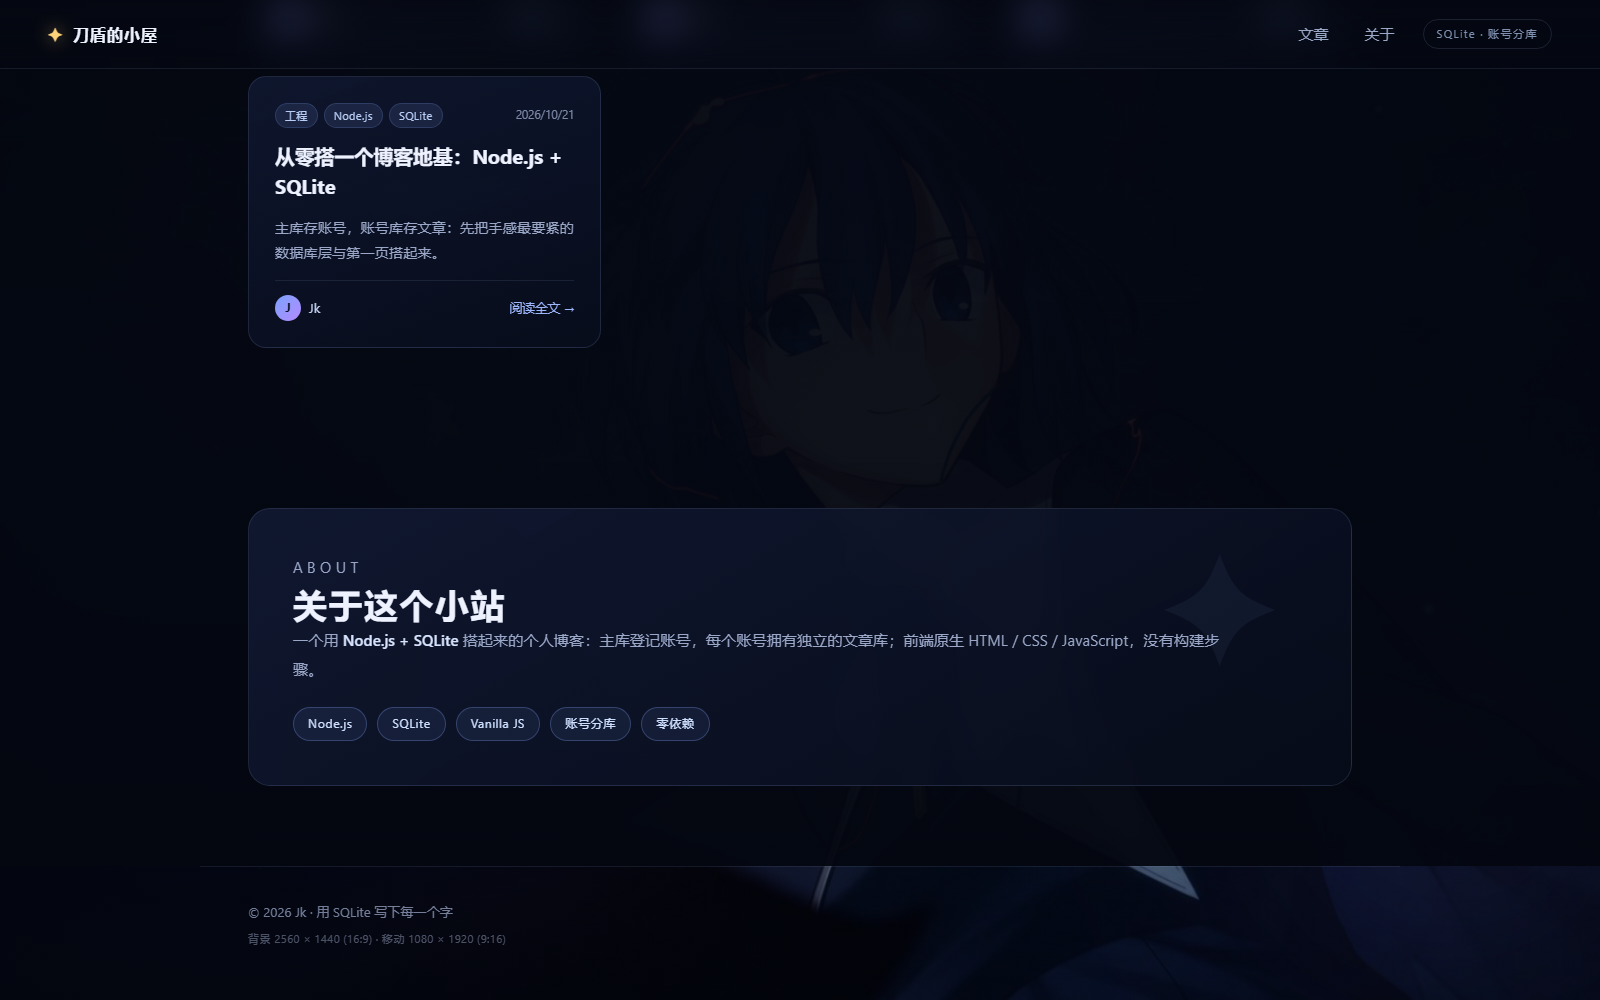
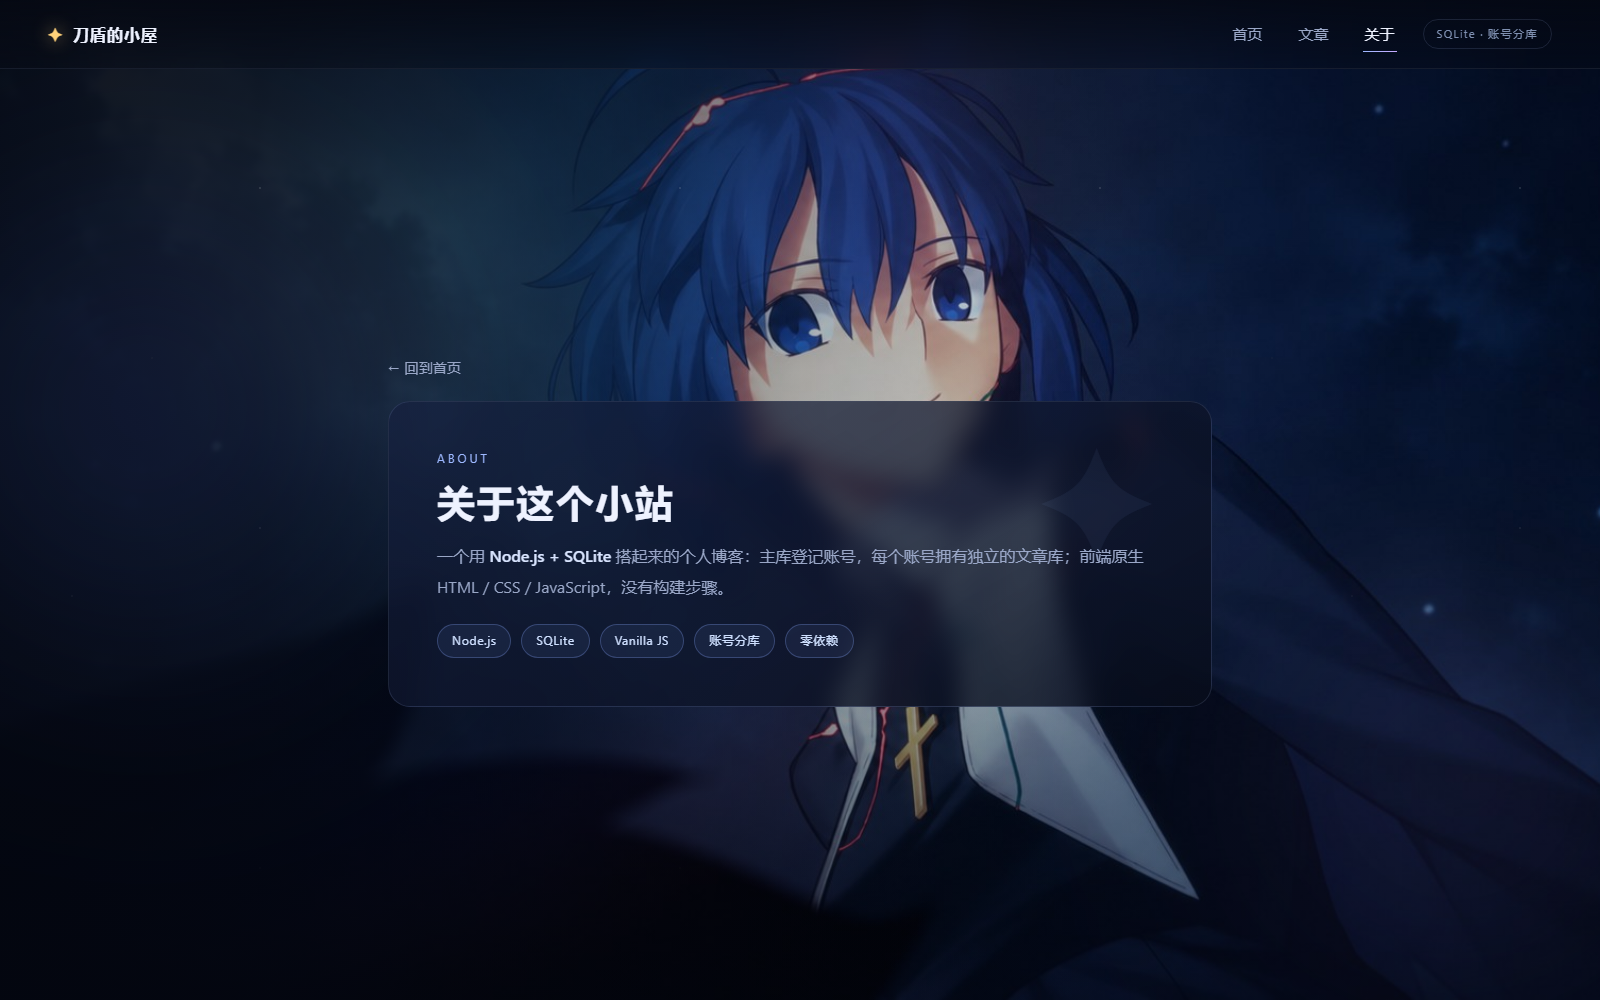
feat: 关于独立为 /about 页面，标题/正文/标签由主库 site_settings 驱动

diff --git a/web/about.html b/web/about.html
@@ -1,0 +1,66 @@
+<!DOCTYPE html>
+<html lang="zh-CN">
+  <head>
+    <meta charset="utf-8" />
+    <meta name="viewport" content="width=device-width, initial-scale=1" />
+    <title>关于这个小站 · 刀盾的小屋</title>
+    <meta name="description" content="关于刀盾的小屋：一个用 Node.js + SQLite 搭起来的个人博客。" />
+    <meta name="theme-color" content="#070b18" />
+    <link rel="icon" href="/assets/favicon.svg" type="image/svg+xml" />
+    <link rel="stylesheet" href="/css/style.css" />
+  </head>
+  <body>
+    <div class="scene" aria-hidden="true">
+      <div class="scene-bg"></div>
+      <div class="scene-stars"></div>
+      <div class="scene-glow scene-glow--a"></div>
+      <div class="scene-glow scene-glow--b"></div>
+      <div class="scene-veil"></div>
+    </div>
+
+    <header class="topbar">
+      <a class="brand" href="/" aria-label="回到首页">
+        <span class="brand-mark" aria-hidden="true">✦</span>
+        <span class="brand-text" data-site="title">刀盾的小屋</span>
+      </a>
+      <nav class="nav" aria-label="主导航">
+        <a class="nav-link" href="/">首页</a>
+        <a class="nav-link" href="/#feed">文章</a>
+        <a class="nav-link is-active" href="/about" aria-current="page">关于</a>
+      </nav>
+      <span class="topbar-badge">SQLite · 账号分库</span>
+    </header>
+
+    <main class="about-main">
+      <a class="back-link" href="/">← 回到首页</a>
+
+      <section class="about-card about-card--page" aria-labelledby="about-title">
+        <p class="section-kicker">About</p>
+        <h1 class="section-title" id="about-title" data-site="aboutTitle">关于这个小站</h1>
+        <div class="about-text" id="about-text">
+          <p>
+            一个用 <strong>Node.js + SQLite</strong> 搭起来的个人博客：主库登记账号，每个账号拥有独立的文章库；前端原生 HTML / CSS / JavaScript，没有构建步骤。
+          </p>
+        </div>
+        <ul class="tech-tags" id="about-tags" role="list">
+          <li>Node.js</li>
+          <li>SQLite</li>
+          <li>Vanilla JS</li>
+          <li>账号分库</li>
+          <li>零依赖</li>
+        </ul>
+      </section>
+    </main>
+
+    <footer class="footer">
+      <p data-site="footer">© 2026 Jk · 用 SQLite 写下每一个字</p>
+      <p class="footer-meta">背景 2560 × 1440 (16:9) · 移动 1080 × 1920 (9:16)</p>
+    </footer>
+
+    <noscript>
+      <p class="noscript">这个页面的内容需要 JavaScript 才能从后端读取，请启用后再试。</p>
+    </noscript>
+
+    <script type="module" src="/js/about.js"></script>
+  </body>
+</html>

diff --git a/web/css/style.css b/web/css/style.css
@@ -881,12 +881,16 @@ img {
   pointer-events: none;
 }
 
-.about-card > p {
+.about-text {
   max-width: 62em;
   margin: 0;
   color: var(--muted);
   font-size: 0.95rem;
   line-height: 1.95;
+}
+
+.about-text p {
+  margin: 0;
 }
 
 .about-card strong {
@@ -921,6 +925,57 @@ img {
   color: #cfe0ff;
   font-size: 0.77rem;
   letter-spacing: 0.04em;
+}
+
+/* ------------------------------------------------------------------
+   关于页（独立页面 /about）
+   ------------------------------------------------------------------ */
+
+.about-main {
+  display: flex;
+  flex-direction: column;
+  justify-content: center;
+  gap: clamp(14px, 2.4vh, 22px);
+  width: min(920px, 100%);
+  min-height: calc(100svh - 64px);
+  margin: 0 auto;
+  padding: clamp(32px, 6vh, 64px) clamp(20px, 5vw, 48px) clamp(40px, 7vh, 72px);
+}
+
+.back-link {
+  align-self: flex-start;
+  color: var(--muted);
+  font-size: 0.85rem;
+  letter-spacing: 0.04em;
+  text-decoration: none;
+  transition: color 0.2s ease;
+}
+
+.back-link:hover {
+  color: var(--ink);
+}
+
+.about-card--page {
+  width: 100%;
+  padding: clamp(28px, 4vw, 48px);
+  animation: rise-in 0.8s cubic-bezier(0.22, 0.8, 0.24, 1) both;
+}
+
+.about-card--page .section-title {
+  font-size: clamp(1.7rem, 3.2vw, 2.4rem);
+}
+
+.about-card--page .about-text {
+  margin-top: 14px;
+  font-size: 1rem;
+}
+
+.nav-link.is-active {
+  color: var(--ink);
+}
+
+.nav-link.is-active::after {
+  right: 0;
 }
 
 /* ------------------------------------------------------------------
@@ -1355,6 +1410,12 @@ img {
     min-height: calc(100svh - 52px);
     padding-top: 20px;
     padding-bottom: clamp(24px, 5vh, 40px);
+    padding-left: 18px;
+    padding-right: 18px;
+  }
+
+  .about-main {
+    min-height: calc(100svh - 52px);
     padding-left: 18px;
     padding-right: 18px;
   }

diff --git a/web/index.html b/web/index.html
@@ -30,7 +30,7 @@
       </a>
       <nav class="nav" aria-label="主导航">
         <a class="nav-link" href="#feed">文章</a>
-        <a class="nav-link" href="#about">关于</a>
+        <a class="nav-link" href="/about">关于</a>
       </nav>
       <span class="topbar-badge">SQLite · 账号分库</span>
     </header>
@@ -51,7 +51,7 @@
             <a class="btn btn-primary" href="#feed">
               进入博客 <span class="btn-arrow" aria-hidden="true">→</span>
             </a>
-            <a class="btn btn-ghost" href="#about">关于小站</a>
+            <a class="btn btn-ghost" href="/about">关于小站</a>
           </div>
           <dl class="stats" aria-label="站点数据">
             <div class="stat">
@@ -91,23 +91,6 @@
           </div>
           <div class="feed" id="feed-list">
             <p class="feed-state">正在读取文章库…</p>
-          </div>
-        </section>
-
-        <section class="section about-section" id="about" aria-labelledby="about-title">
-          <div class="about-card" data-reveal>
-            <p class="section-kicker">About</p>
-            <h2 class="section-title" id="about-title">关于这个小站</h2>
-            <p>
-              一个用 <strong>Node.js + SQLite</strong> 搭起来的个人博客：主库登记账号，每个账号拥有独立的文章库；前端原生 HTML / CSS / JavaScript，没有构建步骤。
-            </p>
-            <ul class="tech-tags" role="list">
-              <li>Node.js</li>
-              <li>SQLite</li>
-              <li>Vanilla JS</li>
-              <li>账号分库</li>
-              <li>零依赖</li>
-            </ul>
           </div>
         </section>
       </div>

diff --git a/web/js/about.js b/web/js/about.js
@@ -1,0 +1,47 @@
+import { getSite } from './api.js';
+import { renderMarkdown } from './markdown.js';
+
+const $ = (selector, root = document) => root.querySelector(selector);
+
+/** 「关于」页的标签也存在主库 site_settings 里，用逗号分隔。 */
+function renderTags(raw) {
+  const list = $('#about-tags');
+  if (!list || !raw) return;
+  const tags = String(raw)
+    .split(/[,，]/)
+    .map((tag) => tag.trim())
+    .filter(Boolean);
+  if (tags.length === 0) return;
+  list.replaceChildren(
+    ...tags.map((tag) => {
+      const item = document.createElement('li');
+      item.textContent = tag;
+      return item;
+    }),
+  );
+}
+
+function applySite(site) {
+  for (const node of document.querySelectorAll('[data-site]')) {
+    const value = site[node.dataset.site];
+    if (value) node.textContent = value;
+  }
+
+  const text = $('#about-text');
+  if (text && site.aboutText) text.innerHTML = renderMarkdown(site.aboutText);
+
+  renderTags(site.aboutTags);
+  document.title = `${site.aboutTitle || '关于'} · ${site.title || '刀盾的小屋'}`;
+}
+
+async function boot() {
+  try {
+    const data = await getSite();
+    if (data?.site) applySite(data.site);
+  } catch (error) {
+    // 后端不可用时保留 HTML 里的静态兜底内容
+    console.warn('关于页内容读取失败，使用静态兜底内容：', error);
+  }
+}
+
+boot();

diff --git a/server/test/db.test.js b/server/test/db.test.js
@@ -23,6 +23,9 @@ test('主库初始化：版本号、默认站点配置、账号库按需创建',
     assert.equal(site.title, '刀盾的小屋');
     assert.ok(site.mascotName.length > 0);
     assert.ok(site.subtitle.length > 0);
+    assert.equal(site.aboutTitle, '关于这个小站');
+    assert.match(site.aboutText, /Node\.js \+ SQLite/);
+    assert.deepEqual(site.aboutTags.split(','), ['Node.js', 'SQLite', 'Vanilla JS', '账号分库', '零依赖']);
 
     const account = app.services.accounts.create({ username: 'alice', nickname: '爱丽丝' });
     const accountFile = path.join(dataDir, 'accounts', `account-${account.id}.db`);

diff --git a/server/src/db/settings.js b/server/src/db/settings.js
@@ -9,6 +9,10 @@ export const DEFAULT_SITE_SETTINGS = Object.freeze({
   mascotName: '小星',
   mascotLine: '欢迎回来，今天也一起写点什么吧～',
   footer: '© 2026 Jk · 用 SQLite 写下每一个字',
+  aboutTitle: '关于这个小站',
+  aboutText:
+    '一个用 **Node.js + SQLite** 搭起来的个人博客：主库登记账号，每个账号拥有独立的文章库；前端原生 HTML / CSS / JavaScript，没有构建步骤。',
+  aboutTags: 'Node.js,SQLite,Vanilla JS,账号分库,零依赖',
 });
 
 /** 主库 site_settings 表的数据访问层（key-value 形式，方便以后扩展）。 */

diff --git a/README.md b/README.md
@@ -15,7 +15,7 @@
 | --- | --- |
 | ![首页](docs/preview/home-desktop.png) | ![文章](docs/preview/feed.png) |
 
-| 阅读弹窗 | 关于小站 |
+| 阅读弹窗 | 关于页 |
 | --- | --- |
 | ![阅读](docs/preview/reader.png) | ![关于](docs/preview/about.png) |
 
@@ -70,9 +70,10 @@ Jk/
 │  ├─ scripts/seed.js          # 种子数据
 │  └─ test/                    # node:test 测试
 ├─ web/                        # 前端（纯静态）
-│  ├─ index.html
+│  ├─ index.html               # 首页（两屏）
+│  ├─ about.html               # 关于页
 │  ├─ css/style.css
-│  ├─ js/                      # api / markdown / app
+│  ├─ js/                      # api / markdown / app / about
 │  └─ assets/                  # 背景图、favicon
 ├─ data/                       # 运行时数据库（git 忽略）
 ├─ docs/
@@ -163,10 +164,11 @@ app.close();
 ## 前端说明
 
 - **看板娘起始页**：全屏星空背景 + 站点标题 + 打字机问候 + 数据统计。看板娘目前以文字问候的形式出场，首页不放立绘。
-- **首页分两屏**：首屏是背景视觉区（标题 / 入口 / 数据，底部有「向下滚动」提示），向下滚动进入内容屏（文章列表 + 关于），内容屏用独立深色渐变与首屏区分。
+- **首页分两屏**：首屏是背景视觉区（标题 / 入口 / 数据，底部有「向下滚动」提示），向下滚动进入内容屏（文章列表），内容屏用独立深色渐变与首屏区分。
   - 桌面端两屏之间是**整屏切换**：首屏顶部滚轮一档（或 `PageDown` / 空格）平滑翻到内容屏；在内容屏里向上滚，滚动越过内容屏顶部时（或 `PageUp` / `Shift+空格`）平滑翻回首屏；切换过程首屏淡出/淡入、上浮、背景压暗、分界线展开、内容渐入。
   - 顶部导航锚点用带缓动的时间曲线滚动，不再和浏览器默认平滑滚动叠加；用户中途滚轮 / 触摸可随时打断。
   - 触屏设备保留原生滚动；系统开启「减少动态效果」(`prefers-reduced-motion`) 时改为瞬时跳转、不做整屏拦截。
+- **关于页**：独立页面 `/about`，标题 / 正文 / 技术标签都存在主库 `site_settings` 里，由 `/js/about.js` 从 `/api/site` 读取渲染；首页不再显示关于区块。
 - **最新文章**：跨账号 Feed；顶部胶囊可按账号筛选，对应「分库」结构。
 - **阅读弹窗**：点击文章卡片，从对应账号库取回正文；内置一个安全的极简 Markdown 渲染器（先整体转义，再渲染）。
 - **文章深链**：`/?post=xiaoxing:1` 可直接打开某篇文章。

diff --git a/docs/data-model.md b/docs/data-model.md
@@ -59,6 +59,11 @@ data/
 | `mascotName` | `小星` |
 | `mascotLine` | `欢迎回来，今天也一起写点什么吧～` |
 | `footer` | `© 2026 Jk · 用 SQLite 写下每一个字` |
+| `aboutTitle` | `关于这个小站` |
+| `aboutText` | `一个用 **Node.js + SQLite** 搭起来的个人博客：主库登记账号，每个账号拥有独立的文章库；前端原生 HTML / CSS / JavaScript，没有构建步骤。`（Markdown 文本） |
+| `aboutTags` | `Node.js,SQLite,Vanilla JS,账号分库,零依赖`（逗号分隔，前端渲染成标签） |
+
+> 「关于这个小站」已改为独立页面 `/about`（首页不再显示关于区块），它的标题、正文、技术标签仍保存在主库 `site_settings` 里，和站点标题、页脚等配置放在一起；改内容用 `node server/scripts/set-setting.js <key> <value>` 即可，不需要改前端。
 
 > `mascotName` / `mascotLine` 仍然保留：首页的打字机问候使用 `mascotLine`（文字看板娘）；原先 AI 生成的占位立绘已按需求从页面移除，配置字段留着方便以后扩展。
 

diff --git a/docs/api.md b/docs/api.md
@@ -51,7 +51,10 @@
     "owner": "Jk",
     "mascotName": "小星",
     "mascotLine": "欢迎回来，今天也一起写点什么吧～",
-    "footer": "© 2026 Jk · 用 SQLite 写下每一个字"
+    "footer": "© 2026 Jk · 用 SQLite 写下每一个字",
+    "aboutTitle": "关于这个小站",
+    "aboutText": "一个用 **Node.js + SQLite** 搭起来的个人博客：主库登记账号，每个账号拥有独立的文章库；前端原生 HTML / CSS / JavaScript，没有构建步骤。",
+    "aboutTags": "Node.js,SQLite,Vanilla JS,账号分库,零依赖"
   }
 }
 ```
@@ -171,6 +174,7 @@
 | 路径 | 说明 |
 | --- | --- |
 | `/` | 看板娘起始页（看板娘以文字问候出现，无立绘） |
+| `/about` | 关于页（标题 / 正文 / 标签来自主库 `site_settings`，由前端 <code>/js/about.js</code> 渲染） |
 | `/css/*`、`/js/*` | 样式与脚本 |
 | `/assets/*` | 背景图、favicon |
 | `/?post=<username>:<id>` | 前端文章深链，打开阅读弹窗 |
